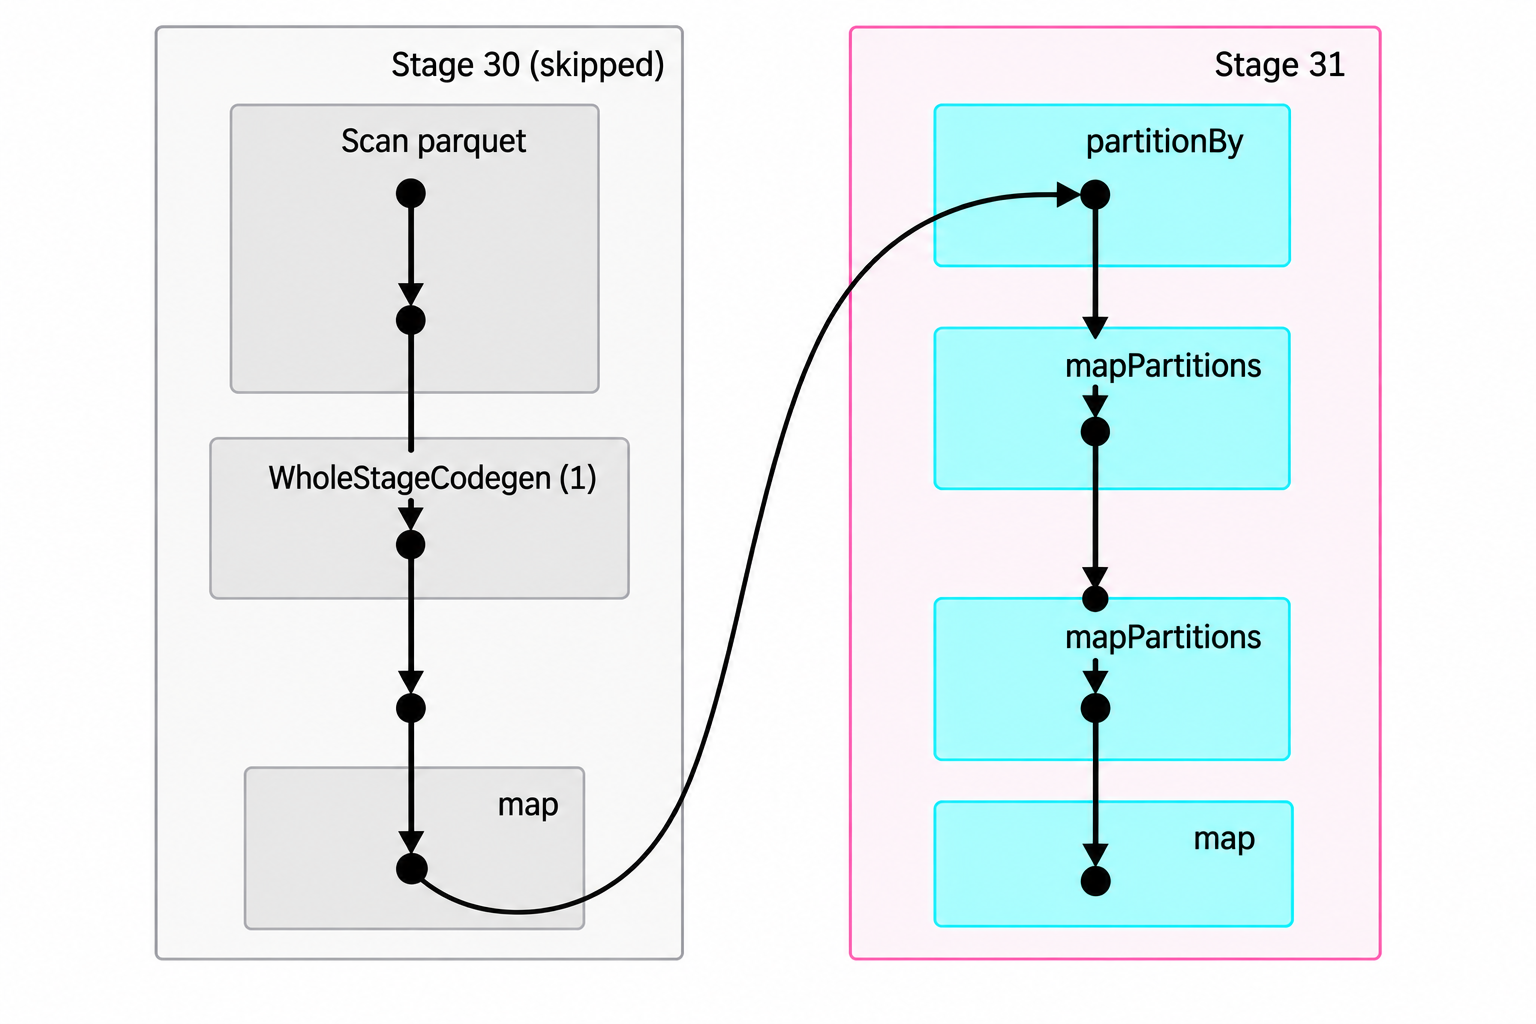
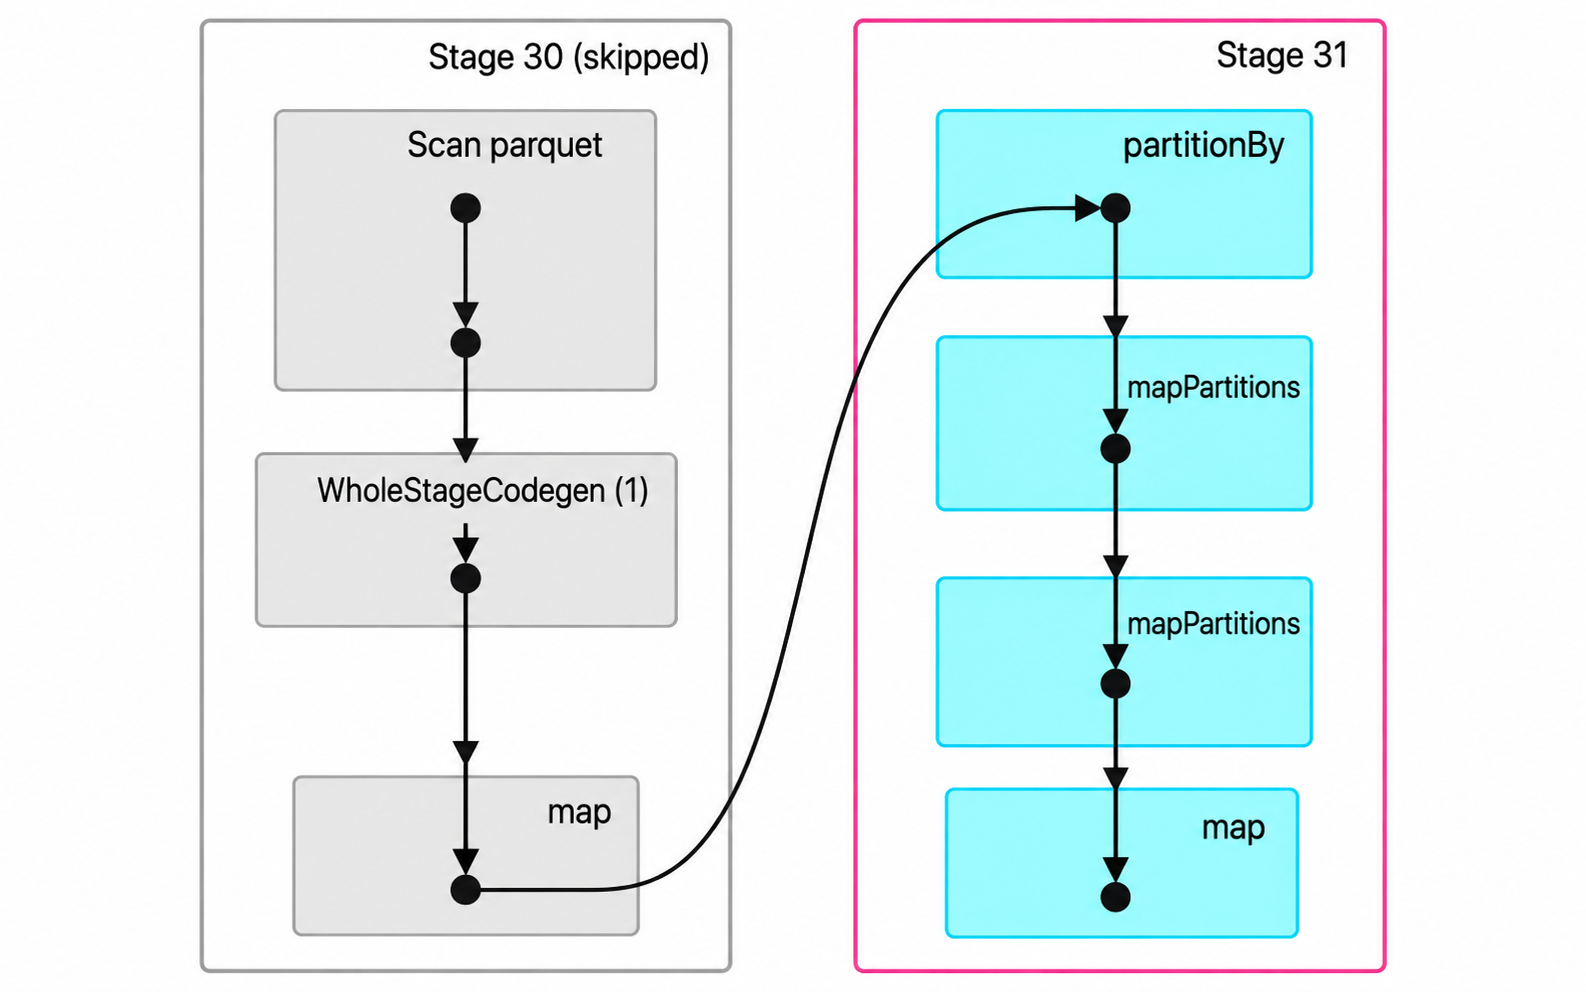
Regenerate lessons 11-15 image assets

Changed region(s): [[0.0938, 0.0, 0.9062, 1.0]]

diff --git a/cohorts/2027/06-batch/2026-09-09-follow-up-provenance.md b/cohorts/2027/06-batch/2026-09-09-follow-up-provenance.md
@@ -8,6 +8,39 @@ published output is inspected at native resolution and at a proportional
 preserved. The crop coordinates below are measured in the original `640×360`
 frame; the tracked crop hash is the authoritative byte-level reference.
 
+## Authoritative current-ref audit — lessons 11–15
+
+After the independent audit result was available, the live Markdown image
+references in lessons 11–15 were re-enumerated. There are eight current
+references: two in lesson 11, one in lesson 12, none in lesson 13, two in
+lesson 14, and three in lesson 15. The four outputs marked **kept** below
+were already proven imagegen outputs and were left byte-for-byte unchanged.
+The four outputs marked **regenerated** had either a deterministic
+resize/sharpen derivative or a non-native retained crop in their prior
+history, so each was regenerated from its original non-crisp JPG plus the
+fresh native bounded crop shown below. The older processed crops remain
+preserved as historical evidence and are not imagegen inputs.
+
+| Live published ref | Disposition | Original JPG (SHA-256) | Native bounded crop (geometry; SHA-256) | Imagegen artifact / published output (SHA-256) | C2PA / validation |
+|---|---|---|---|---|---|
[8 lines of base64/hex data omitted]
+
+All new crops above were extracted from the native `640×360` JPGs with
+ImageMagick `6.9.12-98 Q16 x86_64 18038` using `-crop`, `+repage`, `-strip`,
+and `-define png:exclude-chunk=tIME`; none was resized or sharpened before
+imagegen. The regenerated published PNGs were copied byte-for-byte from the
+listed imagegen artifacts. The 608px renders are validation-only outputs
+under `/tmp/de-batch-11-15-608/`, made with `convert <published.png>
+-resize '608x608>'`; no published output was derived from a resize,
+Lanczos, or sharpening step.
+
 ## Strict 06-batch semantic repairs
 
 These four outputs repair the semantic defects found by the strict 06-batch
